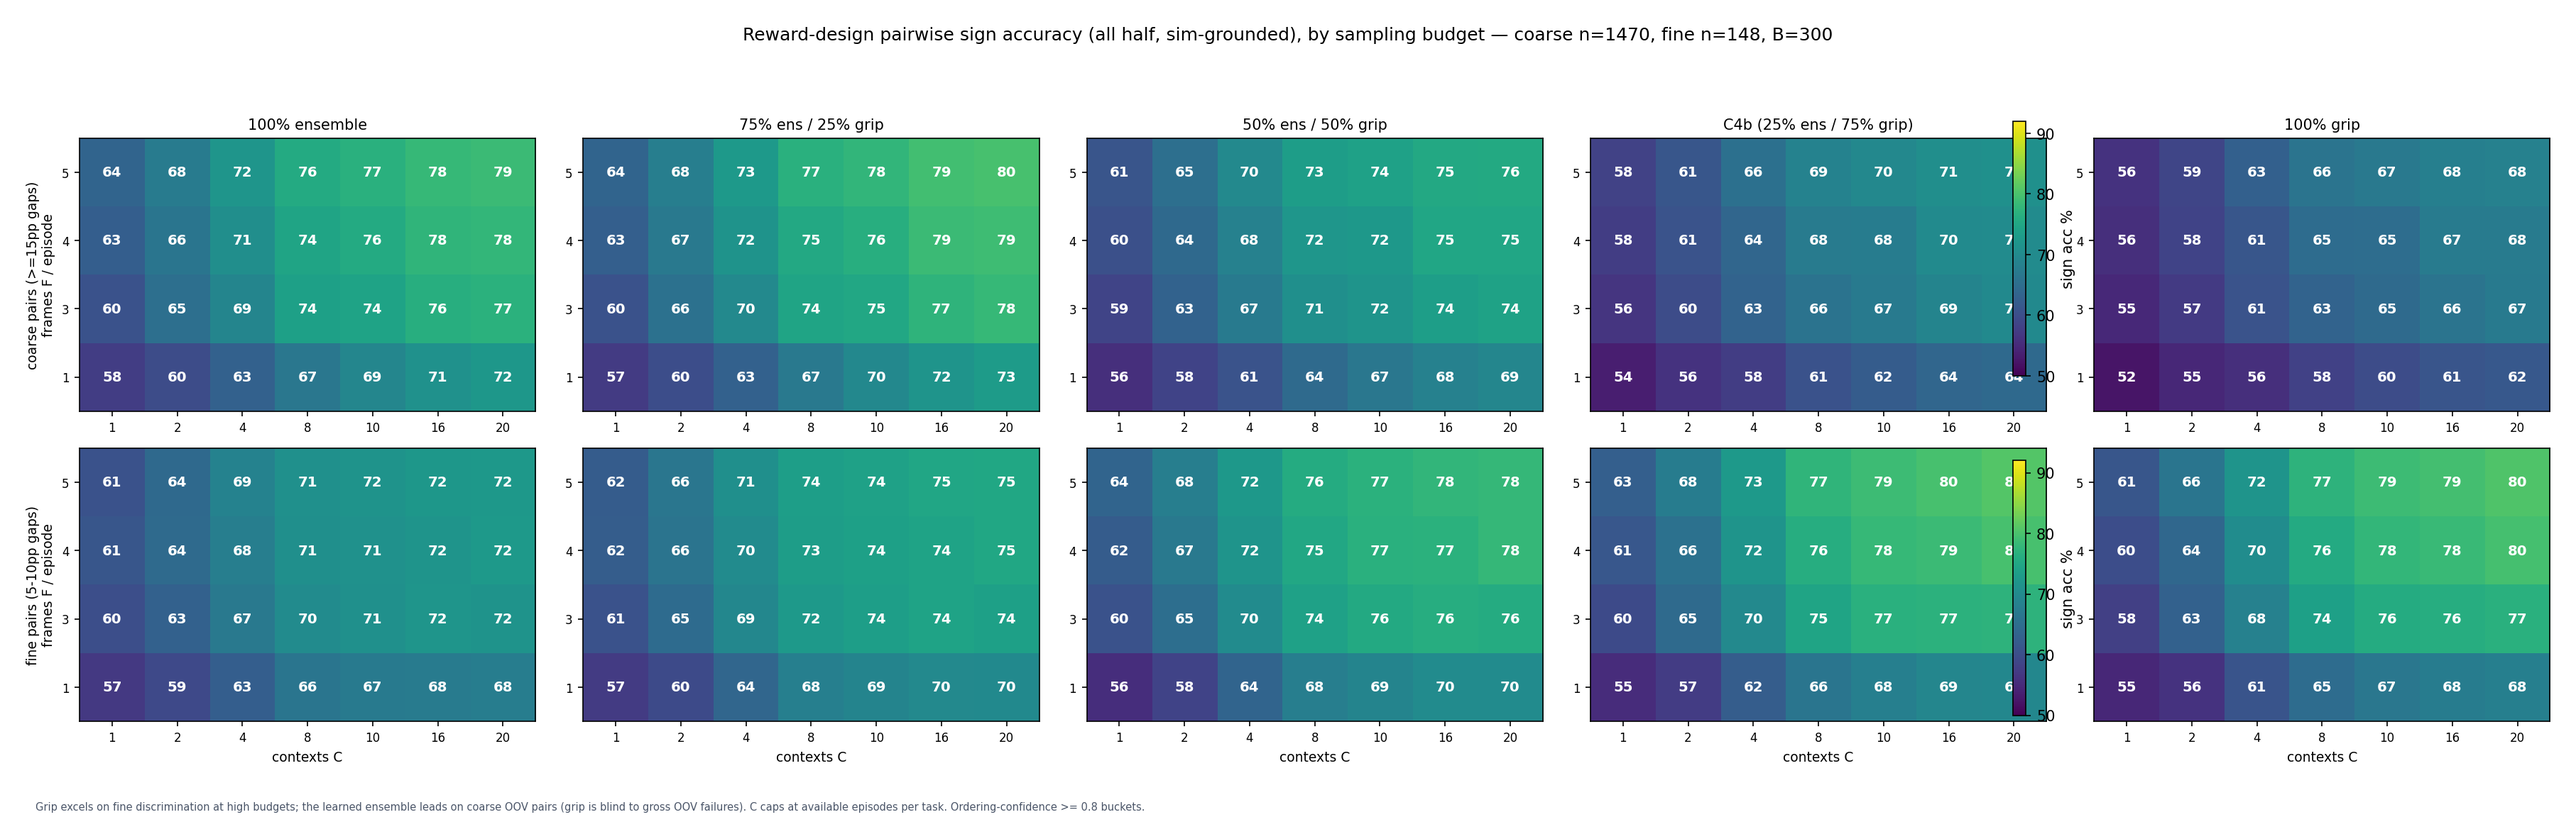
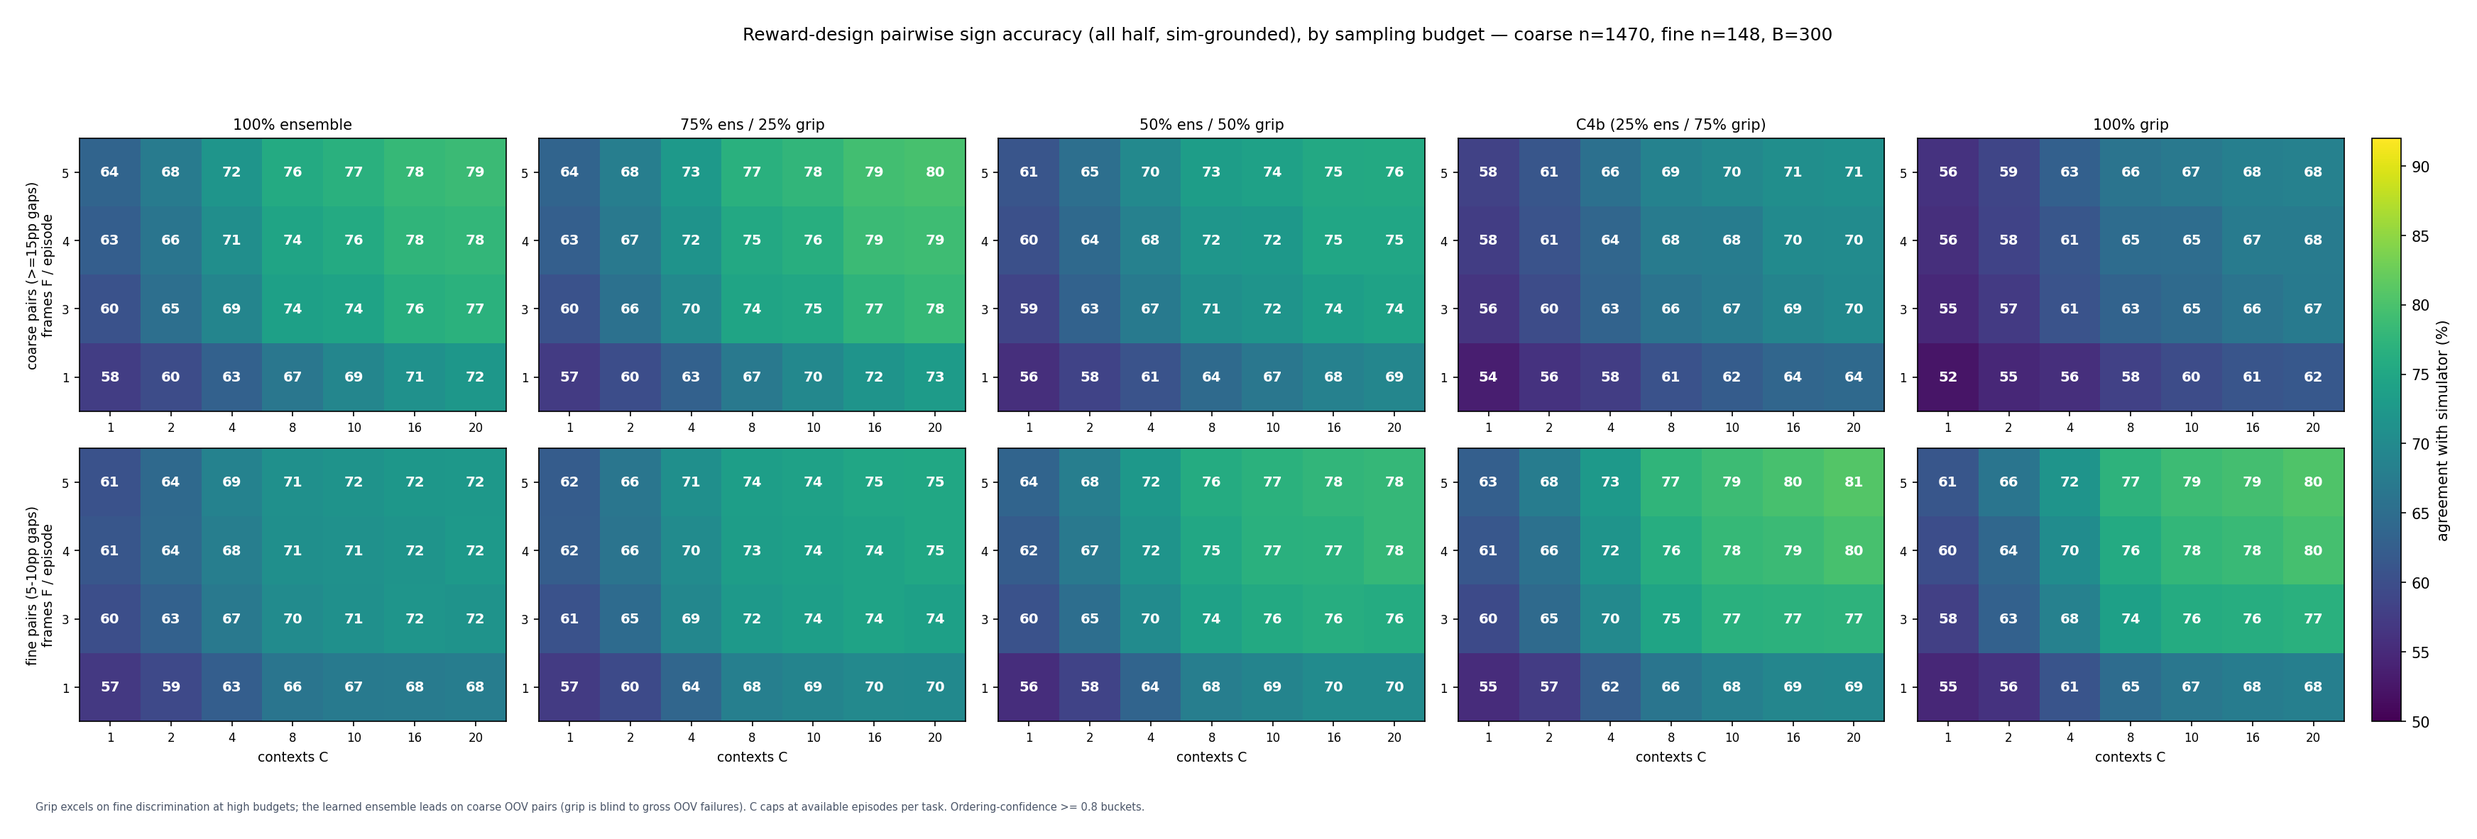
reward-design grid figure: single shared colorbar (per-row bars overlapped the C4b panel)

diff --git a/scripts/make_fine_grid_chart.py b/scripts/make_fine_grid_chart.py
@@ -36,12 +36,13 @@ for ri, (bucket, bname) in enumerate(STRATA):
         if ri == 1: ax.set_xlabel("contexts C", fontsize=9)
         if ax is axes[ri][0]: ax.set_ylabel(f"{bname}\nframes F / episode", fontsize=9)
         if ri == 0: ax.set_title(name, fontsize=10)
-    fig.colorbar(im, ax=list(axes[ri]), label="sign acc %", shrink=0.9)
 fig.suptitle(f"Reward-design pairwise sign accuracy ({HALF} half, sim-grounded), by sampling budget — "
              f"coarse n={g['buckets'].get('far_15+', '?')}, fine n={g['buckets']['fine_5-10']}, B={g['B']}", fontsize=12)
 fig.text(0.01, 0.01, "Grip excels on fine discrimination at high budgets; the learned ensemble leads on coarse OOV pairs (grip is blind to gross OOV failures). "
          "C caps at available episodes per task. Ordering-confidence >= 0.8 buckets.",
          fontsize=7, color="#4a5568")
-fig.tight_layout(rect=[0, 0.05, 1, 0.93])
+fig.tight_layout(rect=[0, 0.05, 0.945, 0.93])
+cb = fig.colorbar(im, ax=axes.ravel().tolist(), fraction=0.016, pad=0.012)
+cb.set_label("agreement with simulator (%)", fontsize=10)
 fig.savefig(f"results/charts/fine_grid_{HALF}.png", dpi=150, bbox_inches="tight", pad_inches=0.25)
 print(f"chart -> results/charts/fine_grid_{HALF}.png")
